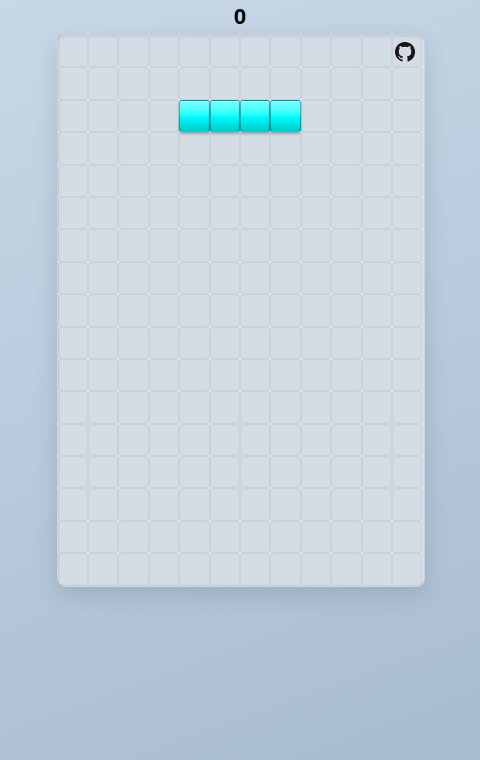
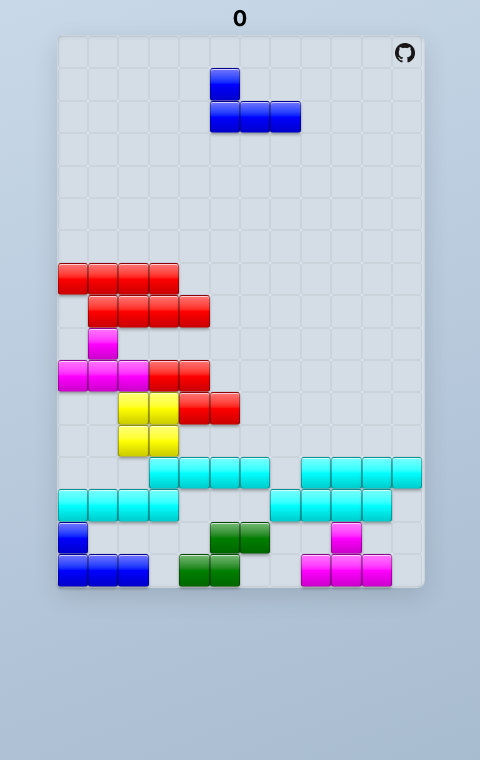
feat: AI 오토플레이 후 스크린샷 캡처
- fp-tetris/scripts/autoplay.js의 AI 로직(evaluate/getBestMove) 이식
- LCG 시드(42)로 Math.random을 브라우저와 Node.js에서 동기화해 피스 순서 일치
- H키로 tick 일시정지 → AI 키이벤트 193개 전송 → H키 해제 → 스크린샷
- 12개 피스 배치로 게임 진행 중인 화면 생성

diff --git a/scripts/screenshot.js b/scripts/screenshot.js
@@ -2,10 +2,99 @@ import { chromium } from 'playwright';
 import { spawn } from 'child_process';
 import { fileURLToPath } from 'url';
 import path from 'path';
+import fpTetris from 'fp-tetris';
 
 const ROOT = path.resolve(path.dirname(fileURLToPath(import.meta.url)), '..');
 const PORT = 5174;
 const BASE = '/fp-tetris-game/';
+const ROWS = 17;
+const COLS = 12;
+const PIECES_TO_PLACE = 12;
+const RNG_SEED = 42;
+
+// LCG PRNG — same sequence injected into the browser so piece order matches
+function makeLcg(seed) {
+  let s = seed >>> 0;
+  return () => {
+    s = (Math.imul(s, 1664525) + 1013904223) | 0;
+    return (s >>> 0) / 4294967296;
+  };
+}
+
+// AI heuristics from fp-tetris/scripts/autoplay.js
+function countFilled(bgPanel) {
+  return bgPanel.reduce(
+    (sum, row) => sum + row.filter(item => !fpTetris.isBlank(item)).length,
+    0,
+  );
+}
+
+function evaluate(bgPanel, linesCleared) {
+  const rows = bgPanel.length;
+  const cols = bgPanel[0].length;
+  const heights = Array(cols).fill(0);
+  for (let c = 0; c < cols; c++) {
+    for (let r = 0; r < rows; r++) {
+      if (!fpTetris.isBlank(bgPanel[r][c])) {
+        heights[c] = rows - r;
+        break;
+      }
+    }
+  }
+  const aggregateHeight = heights.reduce((a, b) => a + b, 0);
+  let holes = 0;
+  for (let c = 0; c < cols; c++) {
+    let blockFound = false;
+    for (let r = 0; r < rows; r++) {
+      if (!fpTetris.isBlank(bgPanel[r][c])) blockFound = true;
+      else if (blockFound) holes++;
+    }
+  }
+  let bumpiness = 0;
+  for (let c = 0; c < cols - 1; c++) {
+    bumpiness += Math.abs(heights[c] - heights[c + 1]);
+  }
+  return -0.51 * aggregateHeight + 0.76 * linesCleared - 0.36 * holes - 0.18 * bumpiness;
+}
+
+function getBestMove(state) {
+  const cols = fpTetris.join(state)[0].length;
+  let bestScore = -Infinity;
+  let bestKeys = [];
+  for (let rot = 0; rot < 4; rot++) {
+    let rotState = state;
+    for (let i = 0; i < rot; i++) rotState = fpTetris.key('up', rotState);
+    let leftState = rotState;
+    for (let i = 0; i < cols; i++) leftState = fpTetris.key('left', leftState);
+    let posState = leftState;
+    for (let c = 0; c <= cols; c++) {
+      const before = countFilled(posState.bgPanel);
+      const dropped = fpTetris.key('space', posState);
+      const after = countFilled(dropped.bgPanel);
+      const lines = Math.round((before + 4 - after) / cols);
+      const score = evaluate(dropped.bgPanel, lines);
+      if (score > bestScore) {
+        bestScore = score;
+        bestKeys = [
+          ...Array(rot).fill('up'),
+          ...Array(cols).fill('left'),
+          ...Array(c).fill('right'),
+          'space',
+        ];
+      }
+      posState = fpTetris.key('right', posState);
+    }
+  }
+  return bestKeys;
+}
+
+const PLAYWRIGHT_KEY = {
+  up: 'ArrowUp',
+  down: 'ArrowDown',
+  left: 'ArrowLeft',
+  right: 'ArrowRight',
+  space: 'Space',
+};
 
 async function waitForServer(url, timeout = 30000) {
   const deadline = Date.now() + timeout;
@@ -21,11 +110,7 @@ async function waitForServer(url, timeout = 30000) {
 
 async function main() {
   console.log('Building...');
-  const build = spawn('npx', ['vite', 'build'], {
-    stdio: 'inherit',
-    shell: true,
-    cwd: ROOT,
-  });
+  const build = spawn('npx', ['vite', 'build'], { stdio: 'inherit', shell: true, cwd: ROOT });
   await new Promise((resolve, reject) => {
     build.on('close', code =>
       code === 0 ? resolve() : reject(new Error(`Build failed: ${code}`))
@@ -38,16 +123,56 @@ async function main() {
     shell: true,
     cwd: ROOT,
   });
-
   const url = `http://localhost:${PORT}${BASE}`;
   await waitForServer(url);
   console.log(`Server ready at ${url}`);
 
+  // Compute AI moves in Node.js with seeded RNG
+  const rng = makeLcg(RNG_SEED);
+  let state = fpTetris.init({
+    rows: ROWS,
+    columns: COLS,
+    pieceSelector: len => Math.floor(rng() * len),
+  });
+  const allKeys = [];
+  for (let i = 0; i < PIECES_TO_PLACE; i++) {
+    if (fpTetris.isBlankToolPanel(state)) break;
+    const moves = getBestMove(state);
+    allKeys.push(...moves);
+    for (const k of moves) state = fpTetris.key(k, state);
+  }
+  console.log(`Sending ${allKeys.length} key events for ${PIECES_TO_PLACE} pieces...`);
+
   const browser = await chromium.launch();
   const page = await browser.newPage();
+
+  // Patch Math.random with same seeded LCG so browser piece order matches Node.js
+  await page.addInitScript(`
+    (() => {
+      let s = ${RNG_SEED} >>> 0;
+      Math.random = function () {
+        s = (Math.imul(s, 1664525) + 1013904223) | 0;
+        return (s >>> 0) / 4294967296;
+      };
+    })();
+  `);
+
   await page.setViewportSize({ width: 480, height: 760 });
   await page.goto(url);
-  await page.waitForTimeout(1500);
+  await page.waitForTimeout(500);
+
+  // H: show help overlay → pauses tick timer, state.pause stays false so key events still work
+  await page.keyboard.press('h');
+  await page.waitForTimeout(100);
+
+  for (const k of allKeys) {
+    await page.keyboard.press(PLAYWRIGHT_KEY[k]);
+  }
+  await page.waitForTimeout(200);
+
+  // H: hide help overlay → ticks resume
+  await page.keyboard.press('h');
+  await page.waitForTimeout(100);
 
   const outPath = path.resolve(ROOT, 'screenshot.png');
   await page.screenshot({ path: outPath });